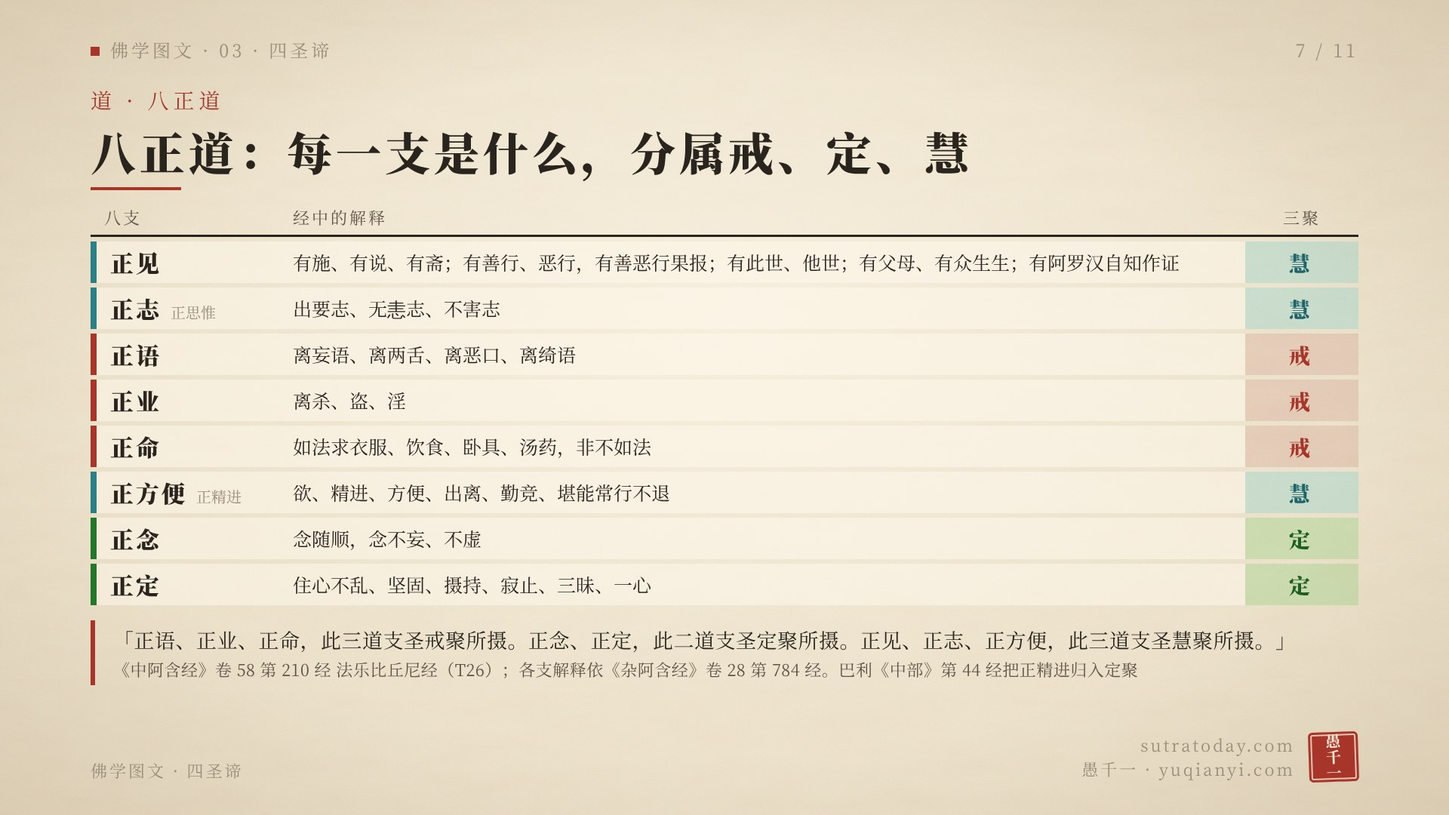
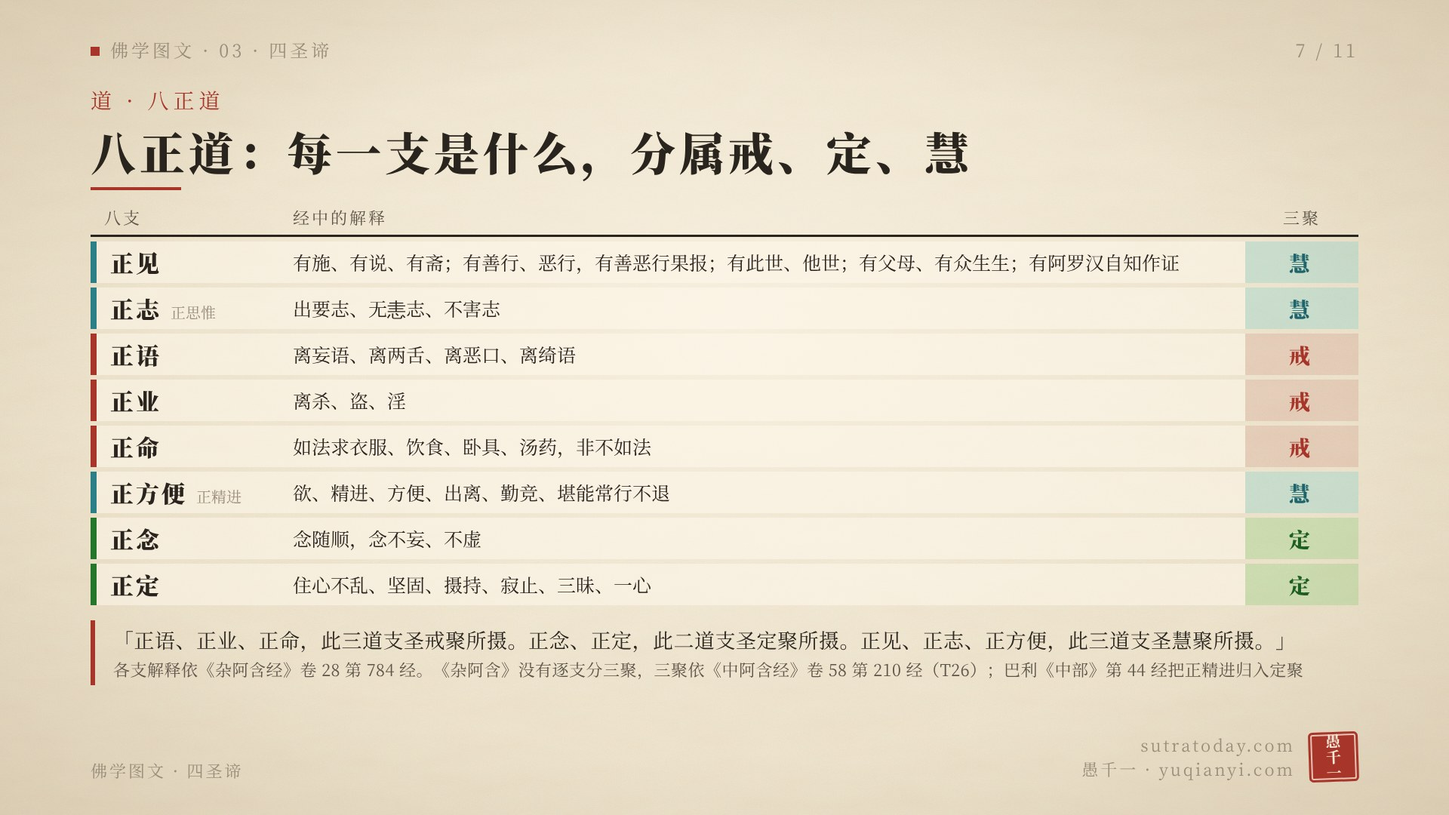
四圣谛：以《杂阿含》为第一依据、《俱舍论》为第二依据校验图卡、文章与口播稿
- 卡 2：象迹喻（中阿含 30）换成杂阿含 393「从初果到成佛，一切知四圣谛」
- 卡 4、5、6：四谛定义改依杂阿含 344（并引第 71 经）
- 卡 7：注明杂阿含无逐支三聚，三聚依中阿含 210
- 卡 8：三十七道品归属改依杂阿含 658、179、1028，未说的依俱舍论卷 25；信、喜、猗、舍列在八正道之外，不再用解脱道论
- 导图卡文字：正见—慧根改引杂阿含 658、785

Claude-Session: https://claude.ai/code/session_01HUmfYdn8wkAM14ebYcQraf

Changed region(s): [[0.0938, 0.7944, 0.9062, 0.8556]]

diff --git a/videos/four-noble-truths-infographic/cards.html b/videos/four-noble-truths-infographic/cards.html
@@ -200,7 +200,7 @@
   .zh.back .z .t { border-top-color: rgba(168,53,42,.3); }
 
   /* ===== 三十七道品矩阵 ===== */
-  .mx { display: grid; grid-template-columns: 210px 1fr 0.75fr 0.9fr 1fr 1fr 1.85fr; gap: 6px; }
+  .mx { display: grid; grid-template-columns: 210px 1fr 0.72fr 0.85fr 1fr 1fr 1.05fr 0.72fr 1.15fr; gap: 6px; }
   .mx .hd { white-space: nowrap; text-align: center; padding: 0 0 4px; font-size: 21px; color: var(--ink-soft); letter-spacing: 1px; line-height: 1.3; }
   .mx .hd b { font-size: 28px; margin-right: 6px; color: var(--ink); font-weight: 900; letter-spacing: 3px; }
   .mx .hd.hx b { color: var(--ink-faint); }
@@ -211,12 +211,14 @@
   .mx .c.e { border: 1px dashed var(--line); background: transparent; }
   .mx .c .it { display: inline-block; margin: 2px 7px; }
   .mx .c.multi { flex-wrap: wrap; }
+  .mx .c.out { border: 2px dashed var(--ink-faint); color: var(--ink-soft); background: transparent; font-weight: 700; }
+  .mx .c.oh { border: 1px dashed var(--ink-faint); background: transparent; color: var(--ink-faint); font-size: 20px; font-weight: 400; line-height: 1.35; }
   .mx .c.ext { border-color: var(--ink-faint); color: var(--ink-soft); }
   .mx .rl.bz { border-left-color: var(--cinnabar); background: var(--cinnabar); color: #f6e9d6; font-size: 34px; }
   .mx .rl.bz small { color: #f3d9cf; }
   .mx .c.bz { background: var(--cinnabar); border-color: var(--cinnabar); color: #f6e9d6; font-size: 28px; min-height: 70px; }
   .mx .c.bz.e { background: transparent; border: 1px dashed var(--line); }
-  .mx .exr { grid-column: 2 / span 6; text-align: left; font-size: 22px; color: var(--cinnabar); letter-spacing: 2px; padding: 4px 0 2px 6px; }
+  .mx .exr { grid-column: 2 / span 8; text-align: left; font-size: 22px; color: var(--cinnabar); letter-spacing: 2px; padding: 4px 0 2px 6px; }
 
   /* ===== 三十七道品思维导图（还原原图） ===== */
   .card.xm { background: #eef0f5; }
@@ -312,7 +314,7 @@
 <section class="card">
   <div class="head"><span class="series">佛学图文 · 03 · 四圣谛</span><span class="pg"></span></div>
   <div class="kicker">为什么是核心 · 一</div>
-  <h1 class="title">佛初转法轮讲四圣谛，一切善法都入四圣谛</h1>
+  <h1 class="title">佛初转法轮讲四圣谛；从初果到成佛，都要知四圣谛</h1>
   <div class="rule"></div>
   <div class="cols2">
     <div class="ev r">
@@ -323,14 +325,14 @@
       <div class="s">《杂阿含经》卷 15 第 379 经（T99）</div>
     </div>
     <div class="ev">
-      <h3>象迹喻</h3>
-      <div class="tag">舍梨子告诸比丘</div>
-      <div class="qt">「若有无量善法，彼一切法皆四圣谛所摄，来入四圣谛中，谓四圣谛于一切法最为第一。……犹如诸畜之迹，象迹为第一。」</div>
-      <p>各种动物的脚印，都能放进大象的脚印里。各种善法，也都摄在四圣谛里面。</p>
-      <div class="s">《中阿含经》卷 7 第 30 经 象迹喻经（T26）</div>
+      <h3>一切都知四圣谛</h3>
+      <div class="tag">佛在波罗㮈鹿野苑告诸比丘</div>
+      <div class="qt">「若善男子正信非家，出家学道，彼一切所应当知四圣谛法。……若得辟支佛道证，彼一切知四圣谛故。……若得无上等正觉，彼一切知四圣谛故。」</div>
+      <p>出家学道的人，证须陀洹、斯陀含、阿那含、阿罗汉的人，证辟支佛道的人，成无上正等正觉的佛，经里一一说：都是知四圣谛。</p>
+      <div class="s">《杂阿含经》卷 15 第 393 经（T99）</div>
     </div>
   </div>
-  <div class="concl">四圣谛是佛说法的起点，一切善法都摄在其中。所以说四圣谛是佛教的核心。</div>
+  <div class="concl">四圣谛是佛说法的起点；从初果到成佛，都是知四圣谛。所以说四圣谛是佛教的核心。</div>
   <div class="foot"><span>佛学图文 · 四圣谛</span><span class="sign"><span class="url">sutratoday.com<br>愚千一 · yuqianyi.com</span><span class="seal">愚千一</span></span></div>
 </section>
 
@@ -379,11 +381,11 @@
     <div class="h">集<small>因 · 世间</small></div>
     <div class="h r">灭<small>果 · 出世间</small></div>
     <div class="h r">道<small>因 · 出世间</small></div>
-    <div class="rl"><span>是什么<small>分别圣谛经</small></span></div>
-    <div class="c">生苦、老苦、病苦、死苦、怨憎会苦、爱别离苦、所求不得苦、略五盛阴苦</div>
-    <div class="c">「爱习苦习圣谛」：于内六处、妻子财物「有爱、有腻、有染、有著，是名为习」</div>
-    <div class="c">「爱灭苦灭圣谛」：「不染不著、断舍吐尽、无欲、灭、止没，是名苦灭」</div>
-    <div class="c">「苦灭道圣谛」：正见、正志、正语、正业、正命、正方便、正念、正定</div>
+    <div class="rl"><span>是什么<small>杂阿含 344</small></span></div>
+    <div class="c">生苦、老苦、病苦、死苦、恩爱别苦、怨憎会苦、所欲不得苦，「如是略说五受阴苦」</div>
+    <div class="c">「当来有爱，喜、贪俱，彼彼集著，是名苦集」</div>
+    <div class="c">「若当来有爱，喜、贪俱，彼彼染著无余断，乃至息、没，是名苦灭」</div>
+    <div class="c">「苦灭道迹」：「谓八圣道」，正见、正志、正语、正业、正命、正方便、正念、正定</div>
     <div class="rl"><span>示转<small>这是什么</small></span></div>
     <div class="c k">此是苦</div><div class="c k">此是集</div><div class="c k r">此是灭</div><div class="c k r">此是道</div>
     <div class="rl"><span>劝转<small>应当怎样</small></span></div>
@@ -391,7 +393,7 @@
     <div class="rl"><span>证转<small>已经做到</small></span></div>
     <div class="c k">已知</div><div class="c k">已断</div><div class="c k r">已作证</div><div class="c k r">已修</div>
   </div>
-  <div class="q" style="margin-top:22px">「苦圣谛知当复知……苦集圣谛已知当断……苦灭圣谛已知当作证……苦灭道迹圣谛已知当修。」<small>《杂阿含经》卷 15 第 379 经：四谛各三转，共十二行。四谛的解释依《中阿含经》卷 7 第 31 经 分别圣谛经（T26）</small></div>
+  <div class="q" style="margin-top:22px">「苦圣谛知当复知……苦集圣谛已知当断……苦灭圣谛已知当作证……苦灭道迹圣谛已知当修。」<small>《杂阿含经》卷 15 第 379 经：四谛各三转，共十二行。四谛的解释依《杂阿含经》卷 14 第 344 经，舍利弗答摩诃拘絺罗</small></div>
   <div class="foot"><span>佛学图文 · 四圣谛</span><span class="sign"><span class="url">sutratoday.com<br>愚千一 · yuqianyi.com</span><span class="seal">愚千一</span></span></div>
 </section>
 
@@ -413,13 +415,13 @@
   <div class="ks">
     <div class="blk">
       <div class="h"><b>苦</b><span>果 · 八苦</span></div>
-      <div class="pl"><i>生苦</i><i>老苦</i><i>病苦</i><i>死苦</i><i>怨憎会苦</i><i>爱别离苦</i><i>所求不得苦</i><i class="last">略五盛阴苦</i></div>
-      <div class="s">《中阿含经》卷 7 第 31 经 分别圣谛经</div>
+      <div class="pl"><i>生苦</i><i>老苦</i><i>病苦</i><i>死苦</i><i>恩爱别苦</i><i>怨憎会苦</i><i>所欲不得苦</i><i class="last">略说五受阴苦</i></div>
+      <div class="s">《杂阿含经》卷 14 第 344 经</div>
     </div>
     <div class="blk" style="border-top-color:var(--cinnabar)">
-      <div class="h"><b style="color:var(--cinnabar)">集</b><span>因 · 经中叫「爱习苦习圣谛」</span></div>
-      <p>对内六处、对妻子财物「有爱、有腻、有染、有著」，是名为习。<br>放到十二支里：<b class="red">惑</b>（无明、爱、取）加上<b>业</b>（行、有），就是集。</p>
-      <div class="s">《中阿含经》卷 7 第 31 经；《俱舍论》卷 9「三烦恼二业，七事亦名果」</div>
+      <div class="h"><b style="color:var(--cinnabar)">集</b><span>因 · 当来有爱</span></div>
+      <p>「当来有爱，喜、贪俱，彼彼集著，是名苦集」。<br>放到十二支里：<b class="red">惑</b>（无明、爱、取）加上<b>业</b>（行、有），就是集。</p>
+      <div class="s">《杂阿含经》卷 14 第 344 经；《俱舍论》卷 9「三烦恼二业，七事亦名果」</div>
     </div>
   </div>
 
@@ -474,7 +476,7 @@
       <div class="h"><b style="color:var(--cinnabar)">道</b><span>因 · 八正道</span></div>
       <div class="qt">「有道有向，修习多修习，得涅槃耶？」「有。谓八正道——正见乃至正定。」</div>
       <div class="bz8"><i>正见</i><i>正思惟</i><i>正语</i><i>正业</i><i>正命</i><i>正精进</i><i>正念</i><i>正定</i></div>
-      <div class="s">同经。《中阿含》分别圣谛经的道谛，也是这八支</div>
+      <div class="s">同经。《杂阿含》第 344 经：苦灭道迹，「谓八圣道」</div>
     </div>
   </div>
 
@@ -529,7 +531,7 @@
     <div class="nm ding"><b>正念</b><small></small></div><div class="df">念随顺，念不妄、不虚</div><div class="jy ding">定</div>
     <div class="nm ding"><b>正定</b><small></small></div><div class="df">住心不乱、坚固、摄持、寂止、三昧、一心</div><div class="jy ding">定</div>
   </div>
-  <div class="q" style="margin-top:20px">「正语、正业、正命，此三道支圣戒聚所摄。正念、正定，此二道支圣定聚所摄。正见、正志、正方便，此三道支圣慧聚所摄。」<small>《中阿含经》卷 58 第 210 经 法乐比丘尼经（T26）；各支解释依《杂阿含经》卷 28 第 784 经。巴利《中部》第 44 经把正精进归入定聚</small></div>
+  <div class="q" style="margin-top:20px">「正语、正业、正命，此三道支圣戒聚所摄。正念、正定，此二道支圣定聚所摄。正见、正志、正方便，此三道支圣慧聚所摄。」<small>各支解释依《杂阿含经》卷 28 第 784 经。《杂阿含》没有逐支分三聚，三聚依《中阿含经》卷 58 第 210 经（T26）；巴利《中部》第 44 经把正精进归入定聚</small></div>
   <div class="foot"><span>佛学图文 · 四圣谛</span><span class="sign"><span class="url">sutratoday.com<br>愚千一 · yuqianyi.com</span><span class="seal">愚千一</span></span></div>
 </section>
 
@@ -550,23 +552,23 @@
 
   <div class="mx">
     <div class="rl bz">八正道<small>8</small></div>
-    <div class="c bz">正见</div><div class="c bz">正思惟</div><div class="c bz">正语<br>正业 正命</div><div class="c bz">正精进</div><div class="c bz">正念</div><div class="c bz">正定</div>
-    <div></div><div class="exr">↓ 其余六组，「成入」八正道各支</div>
+    <div class="c bz">正见</div><div class="c bz">正思惟</div><div class="c bz">正语<br>正业 正命</div><div class="c bz">正精进</div><div class="c bz">正念</div><div class="c bz">正定</div><div class="c oh">信</div><div class="c oh">喜 · 猗 · 舍</div>
+    <div></div><div class="exr">↓ 其余六组归到八正道哪一支：先依《杂阿含》，《杂阿含》没说的依《俱舍论》；右边两列不在八支之内</div>
     <div class="rl ">四念处<small>4</small></div>
-    <div class="c e"></div><div class="c e"></div><div class="c e"></div><div class="c e"></div><div class="c ">身 受 心 法</div><div class="c e"></div>
+    <div class="c e"></div><div class="c e"></div><div class="c e"></div><div class="c e"></div><div class="c ">身 受 心 法</div><div class="c e"></div><div class="c e"></div><div class="c e"></div>
     <div class="rl ">四正勤<small>4</small></div>
-    <div class="c e"></div><div class="c e"></div><div class="c e"></div><div class="c ">四正勤</div><div class="c e"></div><div class="c e"></div>
+    <div class="c e"></div><div class="c e"></div><div class="c e"></div><div class="c ">四正勤</div><div class="c e"></div><div class="c e"></div><div class="c e"></div><div class="c e"></div>
     <div class="rl ">四如意足<small>4</small></div>
-    <div class="c ">慧如意足</div><div class="c e"></div><div class="c e"></div><div class="c multi"><span class="it">欲如意足</span><span class="it">精进如意足</span></div><div class="c e"></div><div class="c ">心如意足</div>
+    <div class="c e"></div><div class="c e"></div><div class="c e"></div><div class="c e"></div><div class="c e"></div><div class="c ">欲定 · 精进定<br>意定 · 思惟定</div><div class="c e"></div><div class="c e"></div>
     <div class="rl ">五根<small>5</small></div>
-    <div class="c ">慧根</div><div class="c e"></div><div class="c e"></div><div class="c ">精进根</div><div class="c ">念根</div><div class="c multi"><span class="it">定根</span><span class="it">信根</span></div>
+    <div class="c ">慧根</div><div class="c e"></div><div class="c e"></div><div class="c ">精进根</div><div class="c ">念根</div><div class="c ">定根</div><div class="c out">信根</div><div class="c e"></div>
     <div class="rl ">五力<small>5</small></div>
-    <div class="c ">慧力</div><div class="c e"></div><div class="c e"></div><div class="c ">精进力</div><div class="c ">念力</div><div class="c multi"><span class="it">定力</span><span class="it">信力</span></div>
+    <div class="c ">慧力</div><div class="c e"></div><div class="c e"></div><div class="c ">精进力</div><div class="c ">念力</div><div class="c ">定力</div><div class="c out">信力</div><div class="c e"></div>
     <div class="rl ">七觉支<small>7</small></div>
-    <div class="c ">择法觉支</div><div class="c e"></div><div class="c e"></div><div class="c ">精进觉支</div><div class="c ">念觉支</div><div class="c multi"><span class="it">定觉支</span><span class="it">喜觉支</span><span class="it">猗觉支</span><span class="it">舍觉支</span></div>
+    <div class="c ">择法觉支</div><div class="c e"></div><div class="c e"></div><div class="c ">精进觉支</div><div class="c ">念觉支</div><div class="c ">定觉支</div><div class="c e"></div><div class="c out">喜 · 猗 · 舍<small>三觉支</small></div>
   </div>
 
-  <div class="q" style="margin-top:18px">「八圣道修习满足已，四念处修习满足，四正勤、四如意足、五根、五力、七觉分修习满足。」<small>《杂阿含经》卷 13 第 305 经（T99）；四念处即正念：同经卷 37 第 1028 经；其余归属依《解脱道论》卷 11「三十七菩提法，成入八正道内」</small></div>
+  <div class="q" style="margin-top:18px">「八圣道修习满足已，四念处修习满足，四正勤、四如意足、五根、五力、七觉分修习满足。」<small>《杂阿含经》卷 13 第 305 经（T99）。四念处即正念：卷 37 第 1028 经；「精进根谓四正断，念根谓四念处，定根谓四禅，慧根谓四圣谛」：卷 26 第 658 经；四如意足是欲、精进、意、思惟四种定：卷 7 第 179 经。信、喜、猗（轻安）、舍，依《俱舍论》卷 25 各有其体</small></div>
 
   <div class="foot"><span>佛学图文 · 四圣谛</span><span class="sign"><span class="url">sutratoday.com<br>愚千一 · yuqianyi.com</span><span class="seal">愚千一</span></span></div>
 </section>

diff --git a/videos/four-noble-truths-infographic/script.md b/videos/four-noble-truths-infographic/script.md
@@ -16,6 +16,9 @@
 | 如来藏 / 烦恼藏 | zàng |
 | 瞋恚 | chēn huì |
 | 绮语 | qǐ yǔ |
+| 摩诃拘絺罗 | mó hē jū chī luó |
+| 须陀洹 / 斯陀含 / 阿那含 | xū tuó huán / sī tuó hán / ā nà hán |
+| 辟支佛 | bì zhī fó |
 | 毗舍佉 | pí shè qū |
 | 猗觉分 | yī |
 | 有斋 | zhāi |
@@ -45,9 +48,10 @@
 第一个理由：佛成道以后第一次说法，讲的就是四圣谛。  
 《杂阿含经》卷十五第三七九经，佛在波罗奈鹿野苑，为五比丘说四圣谛。佛说：「我已于四圣谛三转十二行生眼、智、明、觉，故于诸天、魔、梵、沙门、婆罗门闻法众中，得出、得脱，自证得成阿耨多罗三藐三菩提。」  
 佛自己说，他是对四圣谛三转十二行，生起了眼、智、明、觉，才自证成就无上正等正觉。  
-第二个理由：一切善法，都摄在四圣谛里。  
-《中阿含经》卷七第三十经，叫象迹喻经。舍梨子对比丘们说：「若有无量善法，彼一切法皆四圣谛所摄，来入四圣谛中，谓四圣谛于一切法最为第一。」  
-他打了一个比方：「犹如诸畜之迹，象迹为第一。」各种动物的脚印，都能放进大象的脚印里；各种善法，也都能放进四圣谛里。  
+第二个理由：从初果到成佛，都是知四圣谛。  
+《杂阿含经》卷十五第三九三经，佛在鹿野苑告诉比丘们：「若善男子正信非家，出家学道，彼一切所应当知四圣谛法。」  
+接着一层一层往上说：证须陀洹的，一切当知四圣谛；证斯陀含的，「彼一切皆于四圣谛如实知故」；阿那含、阿罗汉，也是一切知四圣谛；「若得辟支佛道证，彼一切知四圣谛故」；最后是「若得无上等正觉，彼一切知四圣谛故」。  
+从出家学道，到证初果，到成佛，经里说的都是知四圣谛。  
 
 ## 第 3 张
 
@@ -66,11 +70,11 @@
 ![](out/card-4.png)
 
 那么，四圣谛是什么？  
-《中阿含经》卷七第三十一经，叫分别圣谛经。舍梨子把四圣谛，一条一条解释了。  
-苦圣谛：生苦、老苦、病苦、死苦、怨憎会苦、爱别离苦、所求不得苦、略五盛阴苦。这就是常说的八苦。  
-集圣谛，经里叫「爱习苦习圣谛」。对内六处，对妻子、财物、田地、屋宅，「若有爱、有腻、有染、有著者，是名为习」。习，就是集。  
-灭圣谛，经里叫「爱灭苦灭圣谛」。对这些「不染不著、断舍吐尽、无欲、灭、止没者，是名苦灭」。  
-道圣谛：正见、正志、正语、正业、正命、正方便、正念、正定。这就是八正道。  
+《杂阿含经》卷十四第三四四经，摩诃拘絺罗问舍利弗，舍利弗把四圣谛，一条一条解释了。  
+苦：生苦、老苦、病苦、死苦、恩爱别苦、怨憎会苦、所欲不得苦，「如是略说五受阴苦，是名为苦」。这就是常说的八苦。  
+苦集：「当来有爱，喜、贪俱，彼彼集著，是名苦集。」对未来的存在有爱，和喜、贪一起，处处执著，这就是苦的集起。  
+苦灭：这个爱「无余断，乃至息、没，是名苦灭」。爱断尽了，苦就灭了。  
+苦灭道迹：「谓八圣道」，正见、正志、正语、正业、正命、正方便、正念、正定，也就是八正道。  
 苦和集，是世间的因果：集是因，苦是果。灭和道，是出世间的因果：道是因，灭是果。  
 再看图的下半部分。佛初转法轮的时候，对每一谛说了三遍，叫三转十二行。  
 第一转是示转，指出这是什么：此是苦，此是集，此是灭，此是道。  
@@ -120,7 +124,7 @@
 正念：念随顺，念不妄、不虚。  
 正定：住心不乱、坚固、摄持、寂止、三昧、一心。  
 紧接着的第七八五经，又把每一支分成两种：一种是世俗的、有漏的，能让人转向善趣；一种是圣的、出世间的、无漏的，能让人正尽苦，转向苦边。  
-看图的右边一列：八支，又可以归成戒、定、慧三聚。《中阿含经》卷五十八第二一〇经，法乐比丘尼回答毗舍佉优婆夷说：「正语、正业、正命，此三道支圣戒聚所摄。正念、正定，此二道支圣定聚所摄。正见、正志、正方便，此三道支圣慧聚所摄。」  
+看图的右边一列：八支，又可以归成戒、定、慧三聚。《杂阿含》没有逐支说三聚，《中阿含经》卷五十八第二一〇经有：法乐比丘尼回答毗舍佉优婆夷说：「正语、正业、正命，此三道支圣戒聚所摄。正念、正定，此二道支圣定聚所摄。正见、正志、正方便，此三道支圣慧聚所摄。」  
 这里，正方便归在慧聚。巴利《中部》第四十四经，把正精进归在定聚。两处说法不同，图上也注明了。  
 
 ## 第 8 张
@@ -130,15 +134,16 @@
 八正道再展开，就是三十七道品。  
 《杂阿含经》卷十三第三〇五经说：「八圣道修习满足已，四念处修习满足，四正勤、四如意足、五根、五力、七觉分修习满足。」八正道修满了，其余六组道品，也就随着修满了。  
 三十七道品是：四念处、四正勤、四如意足、五根、五力、七觉支、八正道。四加四加四，加五加五，加七加八，一共三十七。  
-其余六组，怎么归入八正道？看这张图：最上面一行是八正道，下面六组，各自归到八正道的某一支下面。  
+其余六组，怎么归入八正道？看这张图：最上面一行是八正道，下面六组，各自归到八正道的某一支下面；右边虚线的两列，不在八支里，后面会讲。  
 四念处归正念，这在《杂阿含》里有明文。卷三十七第一〇二八经，佛对生病的比丘说：「云何为正念？谓比丘内身身观念处，精勤方便，正念正智，调伏世间贪忧。」佛是用四念处，来解释正念的。  
-其余各项，《杂阿含》没有逐项说。《解脱道论》卷十一，把它们一一归入了八正道：  
-慧根、慧力、慧如意足、择法觉分，归入正见；  
-精进根、精进力、精进如意足、欲如意足、精进觉分、四正勤，归入正精进；  
-念根、念力、念觉分、四念处，归入正念；  
-定根、定力、心如意足、信根、信力、定觉分、喜觉分、猗觉分、舍觉分，归入正定。  
-论里说：「如是三十七菩提法，成入八正道内。」  
-《俱舍论》卷二十五和《大智度论》卷十九的分法不一样，它们按体性分，把四念处归入慧。这里，依《杂阿含》和《解脱道论》。  
+其余各项，也先看《杂阿含》。卷二十六第六五八经解释五根：「精进根谓四正断，念根谓四念处，定根谓四禅，慧根谓四圣谛。」四如意足，卷七第一七九经叫欲定、精进定、意定、思惟定，四种都是定。  
+依这些经文，再参考《俱舍论》卷二十五，可以这样归：  
+慧根、慧力、择法觉支，归正见；  
+四正勤、精进根、精进力、精进觉支，归正精进；  
+四念处、念根、念力、念觉支，归正念；  
+四如意足、定根、定力、定觉支，归正定。  
+还剩下信根、信力，和喜、猗、舍三个觉支。《杂阿含》没有把它们配到八支里，《俱舍论》说它们各有其体：信以信为体，喜以喜为体，猗也就是轻安，以轻安为体，舍以行舍为体。所以图上把它们放在八正道之外的两列。  
+《俱舍论》把四念处归入慧，和《杂阿含》第一〇二八经用四念处解释正念不同。这里，依《杂阿含》。  
 
 ## 第 9 张
 
@@ -148,7 +153,7 @@
 图中同一种颜色，是同一类：青色是慧，黄色是念，橙色是精进，绿色是定，红色是信。  
 点线，把同一类的道品连起来。比如四念住，连到正念、念觉支、念根；四正勤，连到正精进、精进觉支、精进根。五根和五力之间的箭头，是从根到力。  
 四念住到七觉支的那条线，标的是「满足」。《杂阿含经》卷二十九第八一〇经说：「四念处满足已，七觉分满足；七觉分满足已，明、解脱满足。」  
-正见到慧根的那条线，标的是「四圣谛」。《解脱道论》卷十一说：「正见者，四谛智。」  
+正见到慧根的那条线，标的是「四圣谛」。《杂阿含经》第六五八经说，慧根就是四圣谛；第七八五经说，出世间的正见，是苦苦思惟，集、灭、道道思惟。  
 
 ## 第 10 张
 

diff --git a/_posts/2026-10-14-four-noble-truths.md b/_posts/2026-10-14-four-noble-truths.md
@@ -27,7 +27,7 @@ tags:
 
 第一个理由：佛成道以后第一次说法，讲的就是四圣谛。《杂阿含经》卷十五第三七九经，佛在波罗㮈鹿野苑，为五比丘说四圣谛。佛说：「我已于四圣谛三转十二行生眼、智、明、觉，故于诸天、魔、梵、沙门、婆罗门闻法众中，得出、得脱，自证得成阿耨多罗三藐三菩提。」佛自己说，他是对四圣谛三转十二行生起了眼、智、明、觉，才自证成就无上正等正觉。
 
-第二个理由：一切善法，都摄在四圣谛里。《中阿含经》卷七第三十经，叫象迹喻经。舍梨子对比丘们说：「若有无量善法，彼一切法皆四圣谛所摄，来入四圣谛中，谓四圣谛于一切法最为第一。」他打了一个比方：「犹如诸畜之迹，象迹为第一。」各种动物的脚印，都能放进大象的脚印里；各种善法，也都能放进四圣谛里。
+第二个理由：从初果到成佛，都是知四圣谛。《杂阿含经》卷十五第三九三经，佛在鹿野苑告诉比丘们：「若善男子正信非家，出家学道，彼一切所应当知四圣谛法。」接着一层一层往上说：三结尽，得须陀洹，「一切当知四圣谛」；贪、恚、痴薄，得斯陀含，「彼一切皆于四圣谛如实知故」；阿那含、阿罗汉，也是一切知四圣谛；「若得辟支佛道证，彼一切知四圣谛故」；最后是「若得无上等正觉，彼一切知四圣谛故」。从出家学道，到证初果，到成佛，经里说的都是知四圣谛。
 
 ![](https://raw.githubusercontent.com/yuqianyi1001/yuqianyi1001.github.io/master/images/2026-10-14-four-noble-truths-card-3.jpg)
 
@@ -45,15 +45,17 @@ tags:
 
 那么，四圣谛是什么？
 
-《中阿含经》卷七第三十一经，叫分别圣谛经，舍梨子把四圣谛一条一条解释了。
+《杂阿含经》卷十四第三四四经，摩诃拘絺罗问舍利弗，舍利弗把四圣谛一条一条解释了。
 
-苦圣谛：「谓生苦、老苦、病苦、死苦、怨憎会苦、爱别离苦、所求不得苦、略五盛阴苦。」这就是常说的八苦。
+苦：「谓生苦、老苦、病苦、死苦、恩爱别苦、怨憎会苦、所欲不得苦，如是略说五受阴苦，是名为苦。」这就是常说的八苦。
 
-集圣谛，经里叫「爱习苦习圣谛」。对内六处，对妻子、财物、田地、屋宅，「若有爱、有腻、有染、有著者，是名为习」。习，就是集。
+苦集：「当来有爱，喜、贪俱，彼彼集著，是名苦集。」对未来的存在有爱，和喜、贪一起，处处执著，这就是苦的集起。
 
-灭圣谛，经里叫「爱灭苦灭圣谛」。对这些「不染不著、断舍吐尽、无欲、灭、止没者，是名苦灭」。
+苦灭：「若当来有爱，喜、贪俱，彼彼染著无余断，乃至息、没，是名苦灭。」这个爱断尽了，苦就灭了。
 
-道圣谛：「谓正见、正志、正语、正业、正命、正方便、正念、正定。」这就是八正道。正志就是正思惟，正方便就是正精进。
+苦灭道迹：「谓八圣道。」八圣道就是正见、正志、正语、正业、正命、正方便、正念、正定，也就是八正道。正志就是正思惟，正方便就是正精进。
+
+《杂阿含经》卷三第七十一经，也是同样的说法：有身是五受阴；有身集，是「当来有爱，贪、喜俱，彼彼染著」；有身灭，是这个爱「无余断、吐、尽、离欲、灭」；有身灭道迹，是八圣道。
 
 苦和集，是世间的因果：集是因，苦是果。灭和道，是出世间的因果：道是因，灭是果。
 
@@ -103,7 +105,7 @@ tags:
 
 紧接着的第七八五经，又把每一支分成两种：一种是世俗的、有漏的，能让人转向善趣；一种是圣的、出世间的、无漏的，能让人「正尽苦，转向苦边」。
 
-八支又可以归成戒、定、慧三聚。《中阿含经》卷五十八第二一〇经，法乐比丘尼回答毗舍佉优婆夷说：「正语、正业、正命，此三道支圣戒聚所摄。正念、正定，此二道支圣定聚所摄。正见、正志、正方便，此三道支圣慧聚所摄。」她还说明，是三聚摄八支圣道，不是八支圣道摄三聚。这里正方便归在慧聚；巴利《中部》第四十四经，把正精进归在定聚，两处说法不同。
+八支又可以归成戒、定、慧三聚。《杂阿含》没有逐支说三聚，《中阿含经》卷五十八第二一〇经有：法乐比丘尼回答毗舍佉优婆夷说：「正语、正业、正命，此三道支圣戒聚所摄。正念、正定，此二道支圣定聚所摄。正见、正志、正方便，此三道支圣慧聚所摄。」她还说明，是三聚摄八支圣道，不是八支圣道摄三聚。这里正方便归在慧聚；巴利《中部》第四十四经，把正精进归在定聚，两处说法不同。
 
 ![](https://raw.githubusercontent.com/yuqianyi1001/yuqianyi1001.github.io/master/images/2026-10-14-four-noble-truths-card-8.jpg)
 
@@ -115,9 +117,13 @@ tags:
 
 其余六组怎么归入八正道？四念处归正念，这在《杂阿含》里有明文。卷三十七第一〇二八经，佛对生病的比丘说：「云何为正念？谓比丘内身身观念处，精勤方便，正念正智，调伏世间贪忧……」佛是用四念处来解释正念的。
 
-其余各项，《杂阿含》没有逐项说。《解脱道论》卷十一把它们一一归入了八正道：慧根、慧力、慧如意足、择法觉分，归入正见；精进根、精进力、精进如意足、欲如意足、精进觉分、四正勤，归入正精进；念根、念力、念觉分、四念处，归入正念；定根、定力、心如意足、信根、信力、定觉分、喜觉分、猗觉分、舍觉分，归入正定。论里说：「如是三十七菩提法，成入八正道内。」
+其余各项，也先看《杂阿含》。卷二十六第六五八经解释五根：「何等为精进根？谓四正断。何等为念根？谓四念处。何等为定根？谓四禅。何等为慧根？谓四圣谛。」第六四七经也说，慧根是「苦圣谛如实知，苦集圣谛、苦灭圣谛、苦灭道迹圣谛如实知」。四如意足，《杂阿含》卷七第一七九经叫「欲定断行成就如意足」，又有精进定、意定、思惟定，四种都是定。
 
-《俱舍论》卷二十五和《大智度论》卷十九的分法不一样，它们按体性分，把四念处归入「慧」。这里依《杂阿含》和《解脱道论》。
+依这些经文，再参考《俱舍论》卷二十五「此觉分名虽三十七，实事唯十」的说法，可以这样归：慧根、慧力、择法觉支，归正见；四正勤、精进根、精进力、精进觉支，归正精进；四念处、念根、念力、念觉支，归正念；四如意足、定根、定力、定觉支，归正定。
+
+还剩下信根、信力，和喜、猗、舍三个觉支。《杂阿含》没有把它们配到八支里，《俱舍论》说它们各有其体：信根、信力以信为体，喜觉支以喜为体，猗觉支（轻安）以轻安为体，舍觉支以行舍为体。所以图上把它们放在八正道之外的两列。
+
+《俱舍论》把四念处归入「慧」，因为四念处的体是慧。这一点和《杂阿含》第一〇二八经用四念处解释正念不同，这里依《杂阿含》。《解脱道论》卷十一另有一种分法，把三十七道品全部归入八正道，这里不采用。
 
 ![](https://raw.githubusercontent.com/yuqianyi1001/yuqianyi1001.github.io/master/images/2026-10-14-four-noble-truths-card-9.jpg)
 
@@ -127,7 +133,7 @@ tags:
 
 四念住到七觉支的那条线，标的是「满足」。《杂阿含经》卷二十九第八一〇经说：「四念处满足已，七觉分满足；七觉分满足已，明、解脱满足。」
 
-正见到慧根的那条线，标的是「四圣谛」。《解脱道论》卷十一说：「正见者，四谛智。」
+正见到慧根的那条线，标的是「四圣谛」。《杂阿含经》第六五八经说「慧根谓四圣谛」；第七八五经说，出世间的正见，是「苦苦思惟，集、灭、道道思惟」。
 
 ![](https://raw.githubusercontent.com/yuqianyi1001/yuqianyi1001.github.io/master/images/2026-10-14-four-noble-truths-card-10.jpg)
 

diff --git a/videos/four-noble-truths-infographic/sources.md b/videos/four-noble-truths-infographic/sources.md
@@ -1,5 +1,9 @@
 # 佛学图文 03 · 四圣谛 — 引文核对记录
 
+## 校验原则
+
+先依《杂阿含经》；《杂阿含》没有说到的，再参考《俱舍论》；两者都没有的，才用其他经论，并在图卡或文中注明。大乘三系（中论、成唯识论、胜鬘经）的经证不在此列。
+
 ## 图卡顺序（out/card-N.png ↔ images/2026-10-14-four-noble-truths-card-N.jpg）
 
 1. 封面：四圣谛是核心，十二因缘是原理，八正道是方法
@@ -42,6 +46,13 @@
 | 导图 | 正见者，四谛智（正见—慧根标「四圣谛」） | 《解脱道论》卷 11（T1648） |
 | 八正道 | 何等为正见？谓说有施、有说、有斋……何等为正志？谓出要志、无恚志、不害志……正语：离妄语、离两舌、离恶口、离绮语；正业：离杀、盗、婬；正命：如法求衣服、饮食、卧具、汤药；正方便：欲、精进、方便、出离、勤竞、堪能常行不退；正念：念随顺，念不妄、不虚；正定：住心不乱、坚固、摄持、寂止、三昧、一心 | 《杂阿含经》卷 28 第 784 经 |
 | 八正道 | 正语、正业、正命，此三道支圣戒聚所摄。正念、正定，此二道支圣定聚所摄。正见、正志、正方便，此三道支圣慧聚所摄 | 《中阿含经》卷 58 第 210 经 法乐比丘尼经（T26）；巴利《中部》第 44 经把正精进归入定聚，图上注明 |
+| 核心一（替代中阿含象迹喻） | 若善男子正信非家，出家学道，彼一切所应当知四圣谛法……若得辟支佛道证，彼一切知四圣谛故……若得无上等正觉，彼一切知四圣谛故 | 《杂阿含经》卷 15 第 393 经。《杂阿含》第 270、882 经的象迹喻是比喻无常想、不放逸，不是四谛 |
+| 四谛（替代中阿含分别圣谛经） | 云何苦如实知？谓生苦、老苦、病苦、死苦、恩爱别苦、怨憎会苦、所欲不得苦，如是略说五受阴苦……云何苦集如实知？当来有爱，喜、贪俱，彼彼集著……云何苦灭如实知？若当来有爱，喜、贪俱，彼彼染著无余断，乃至息、没……云何苦灭道迹如实知？谓八圣道 | 《杂阿含经》卷 14 第 344 经，舍利弗答摩诃拘絺罗 |
+| 四谛 | 有身，谓五受阴；有身集，当来有爱，贪、喜俱，彼彼染著；有身灭……无余断、吐、尽、离欲、灭；有身灭道迹，谓八圣道 | 《杂阿含经》卷 3 第 71 经 |
+| 道品 | 何等为精进根？谓四正断。何等为念根？谓四念处。何等为定根？谓四禅。何等为慧根？谓四圣谛 | 《杂阿含经》卷 26 第 658 经；第 647 经：慧根是苦圣谛……苦灭道迹圣谛如实知 |
+| 道品 | 欲定断行成就如意足；如修欲定，如是精进定、意定、思惟定亦如是 | 《杂阿含经》卷 7 第 179 经 |
+| 道品 | 信根、信力，以信为体……喜觉支以喜为体，舍觉支以行舍为体，轻安觉支以轻安为体 | 《俱舍论》卷 25：信、喜、轻安、舍不在八支之内，图上列在八正道之外 |
+| 导图 | 正见是圣、出世间……谓圣弟子苦苦思惟，集、灭、道道思惟 | 《杂阿含经》卷 28 第 785 经（正见—慧根标「四圣谛」） |
 
 ## 图上的说法与依据
 
@@ -50,7 +61,7 @@
 - 三世两重因果与集、苦的对应（过去因、现在因＝集；现在果、未来果＝苦）：依《俱舍论》卷 9 三际分支与「惑业事」的说法排出，是论家的解说，不是经文原句。
 - 卡片里的十二支解释是对第 298 经原文的节略，没有改动意思。
 - 灭道卡上方的「道断惑」「业随之灭」「未来不生」：依《俱舍论》卷 9 惑、业、事的分法标出，经文原句是「无明灭则行灭……乃至纯大苦聚灭」。
-- 道品矩阵：四念处归正念，依《杂阿含》第 1028 经；其余各项归入八正道哪一支，《杂阿含》没有逐项说，依《解脱道论》卷 11。《解脱道论》的四如意足是欲、精进、心、慧，图上照原文写。正思惟、正语、正业、正命四支，《解脱道论》这段没有把别的道品归进去，图上这几列下面空着。
+- 道品矩阵（按校验原则重排）：四念处归正念，依《杂阿含》第 1028、658 经；四正勤归正精进、慧根归正见、定根归正定，依第 658 经；四如意足整组归正定，依第 179 经与《俱舍论》「四神足……以定为体」；力、觉支依《俱舍论》卷 25 按体归入；信、喜、猗、舍列在八正道之外。原先依《解脱道论》卷 11 把全部三十七道品归入八支的分法，不再采用，表中《解脱道论》行仅作参考。《解脱道论》的四如意足是欲、精进、心、慧，图上照原文写。正思惟、正语、正业、正命四支，《解脱道论》这段没有把别的道品归进去，图上这几列下面空着。
 - 《杂阿含》第 784、785 经解释八正道时，正念是「念随顺，念不妄、不虚」，没有提四念处。
 - 三十七道品 = 四念处 4、四正勤 4、四神足 4、五根 5、五力 5、七觉支 7、八正道 8。
 - 八正道的名称：图上用通行译名（正思惟、正精进）；《杂阿含》第 287 经作「正志」「正方便」，引文保留原文。
